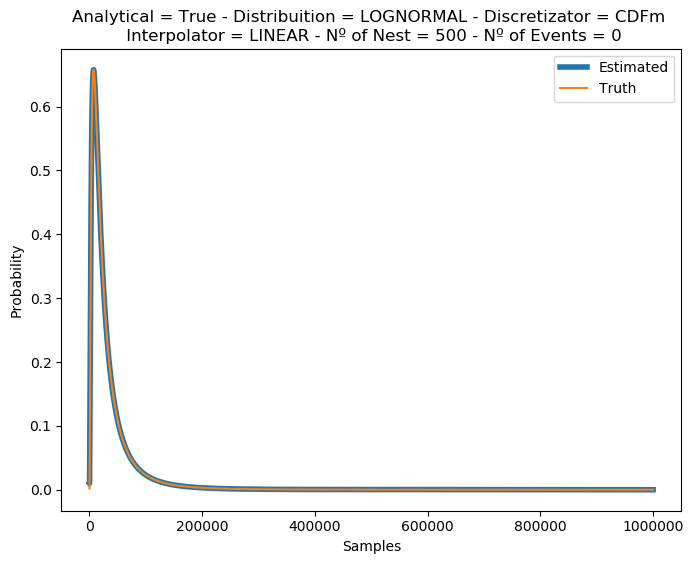
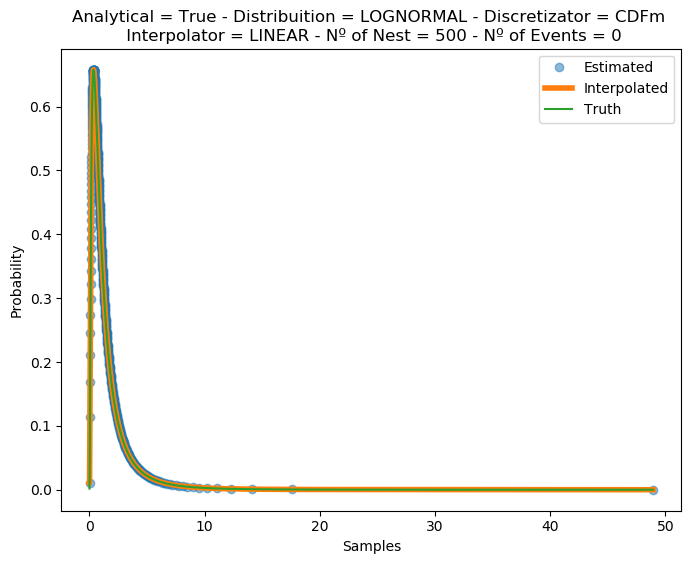
Fixed little bugs and did more plots

diff --git a/run.py b/run.py
@@ -166,8 +166,9 @@ if __name__ == '__main__':
             if any(num == nest for num in plotNest) and any(k in kind for k in plotKind):
                 title = kind + ' - ' + str(nest)
                 plt.figure(title,figsize=(8,6),dpi=100)
-                plt.plot(YN,lw=4,label='Estimated',alpha = 1)
-                plt.plot(YT,label='Truth')
+                plt.plot(xest,YY,'o',lw=4,label='Estimated',alpha = 0.5)
+                plt.plot(xgrid,YN,lw=4,label='Interpolated',alpha = 1)
+                plt.plot(xgrid,YT,label='Truth')
                 plt.xlabel('Samples')
                 plt.ylabel('Probability')
                 plt.legend()
